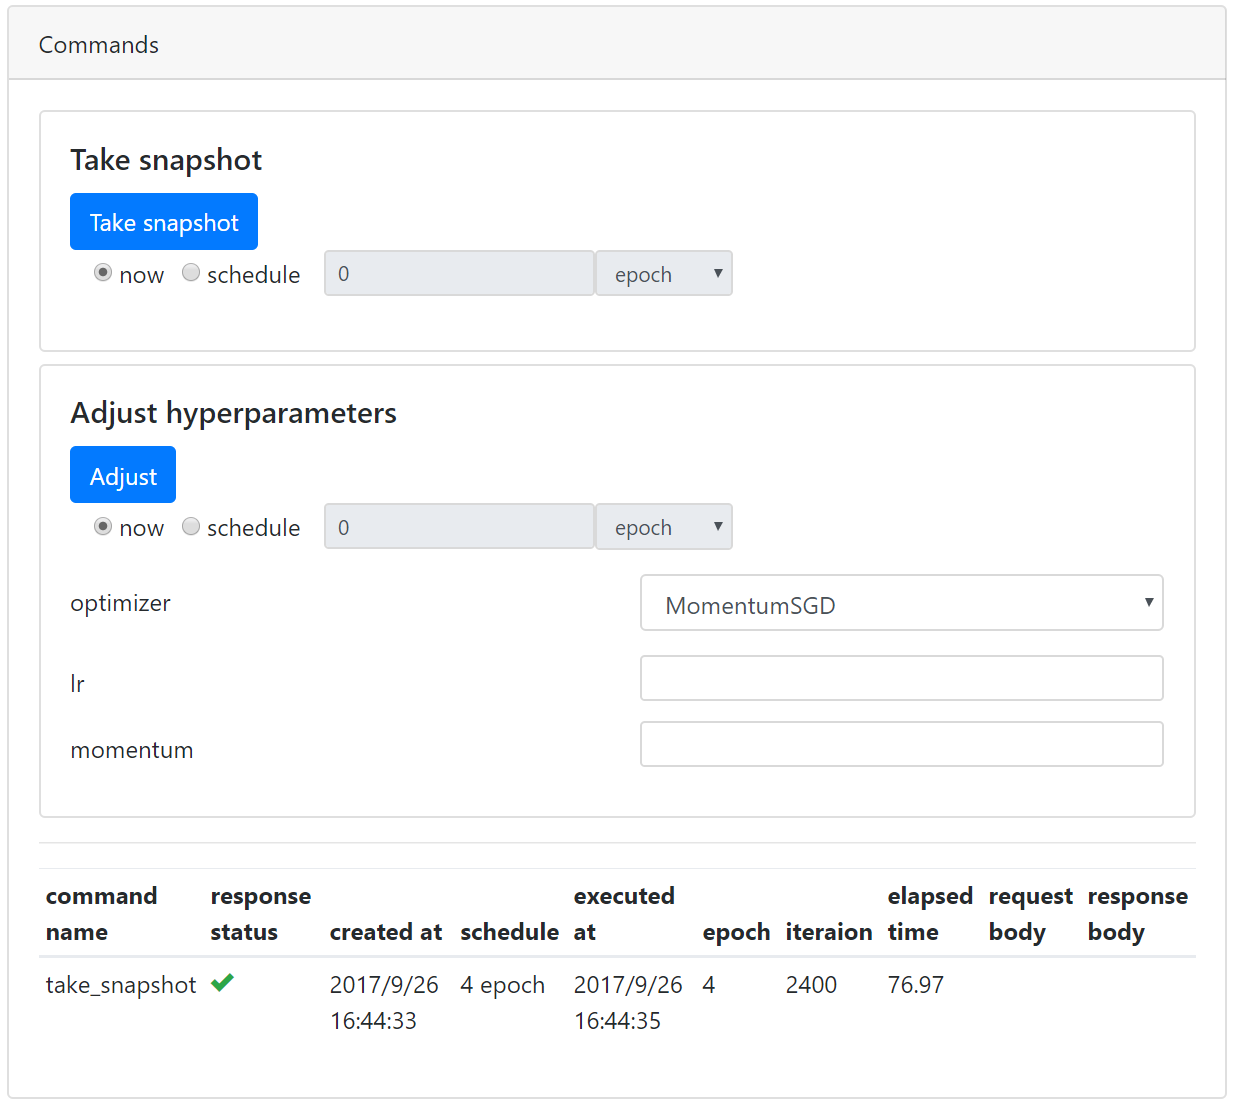
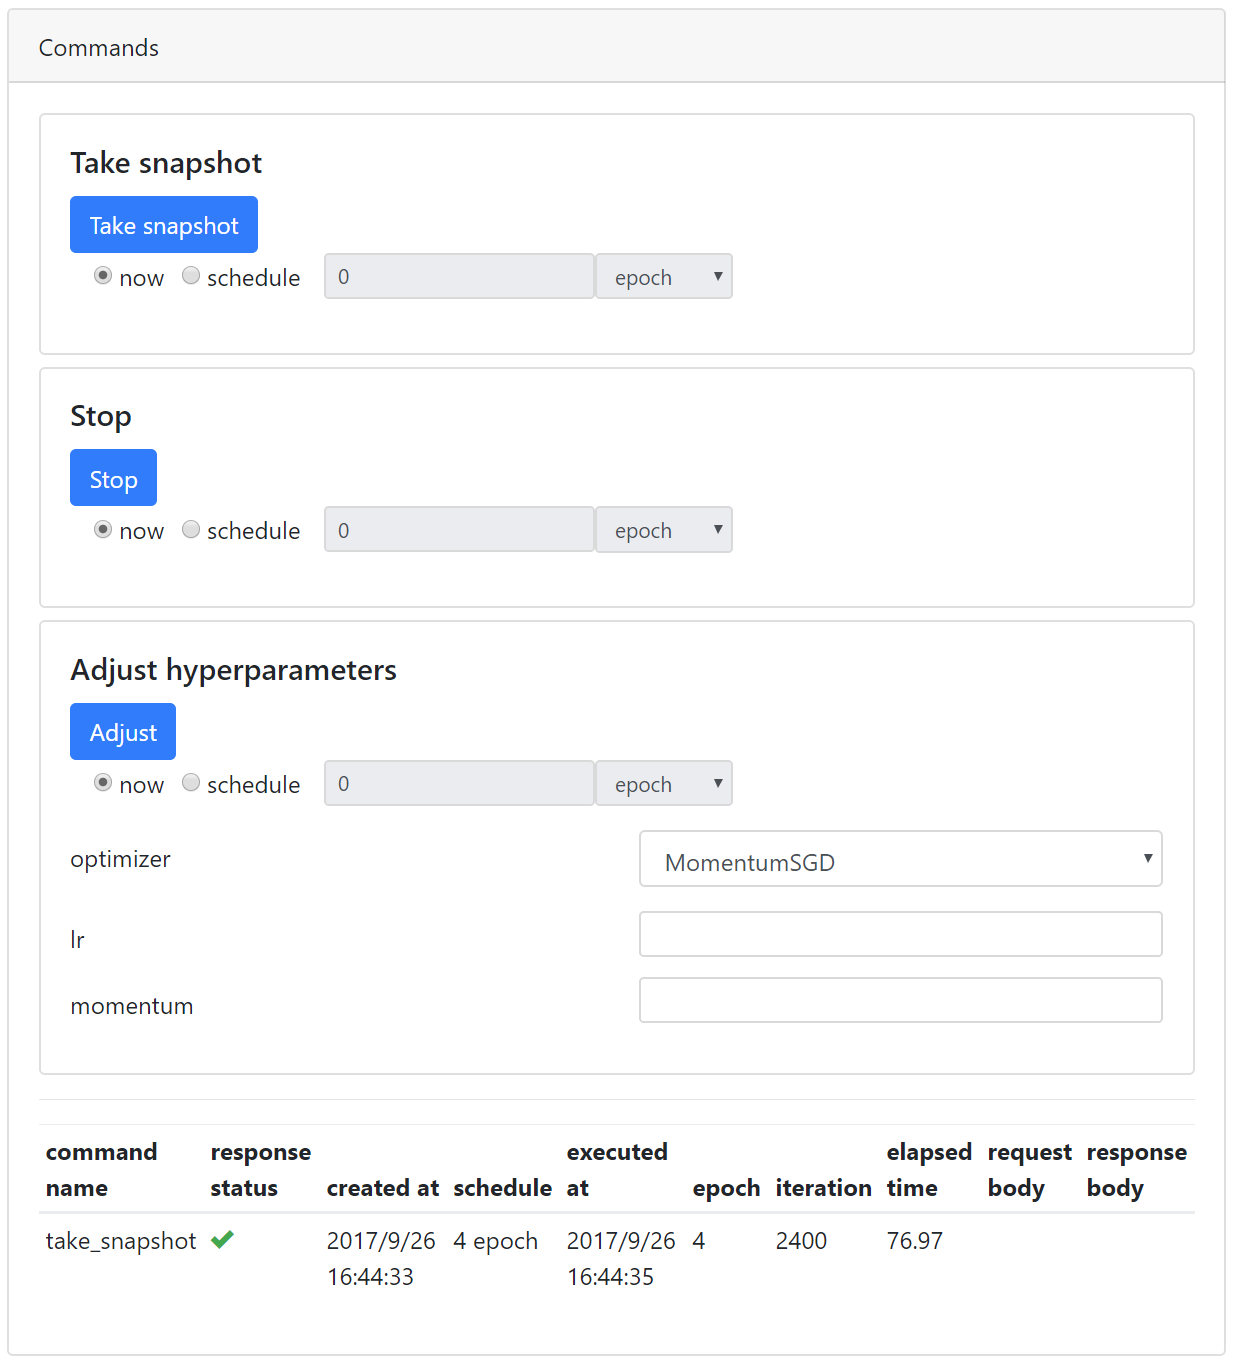
add stop button description

diff --git a/docs/source/getstart.rst b/docs/source/getstart.rst
@@ -50,6 +50,7 @@ Start ChainerUI server
 
 Open http://localhost:5000/ . To stop, press ``Ctrl+C`` on the console. When use original host or port, see :ref:`command option <cmd_server>`:
 
+
 .. _getstart_customize_training_loop:
 
 Customize training loop
@@ -184,6 +185,7 @@ Here is an ``args`` file examples, with values shown as experimental conditions 
       "out": "results"
   }
 
+
 .. _getstart_operate_training_loop:
 
 Operate training loop
@@ -195,6 +197,7 @@ ChainerUI supports operating a training loop with :ref:`CommandsExtension <modul
 
 * Taking snapshot
 * Adjusting the hyperparameters of an optimizer
+* Stopping the training loop
 
 Operation buttons are in :ref:`detail page <ui_detail_page>`.
 
